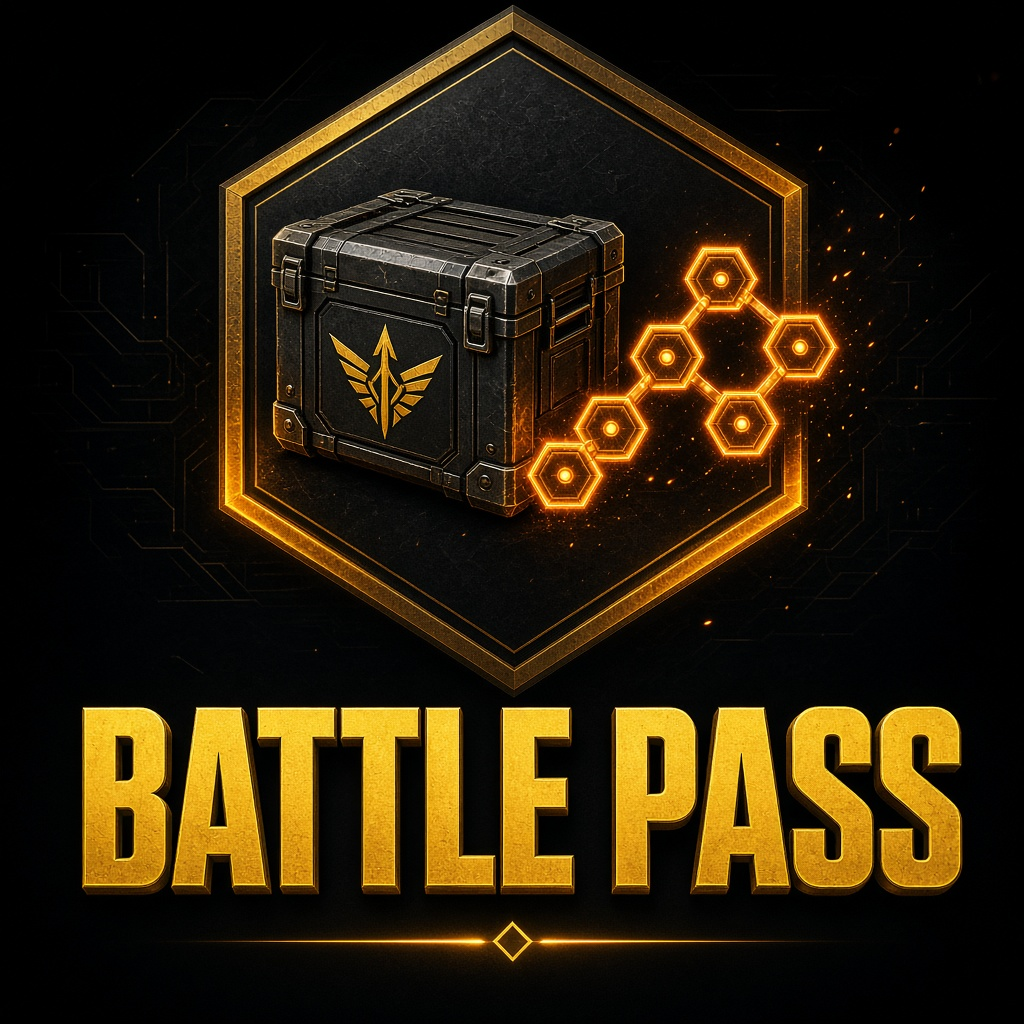
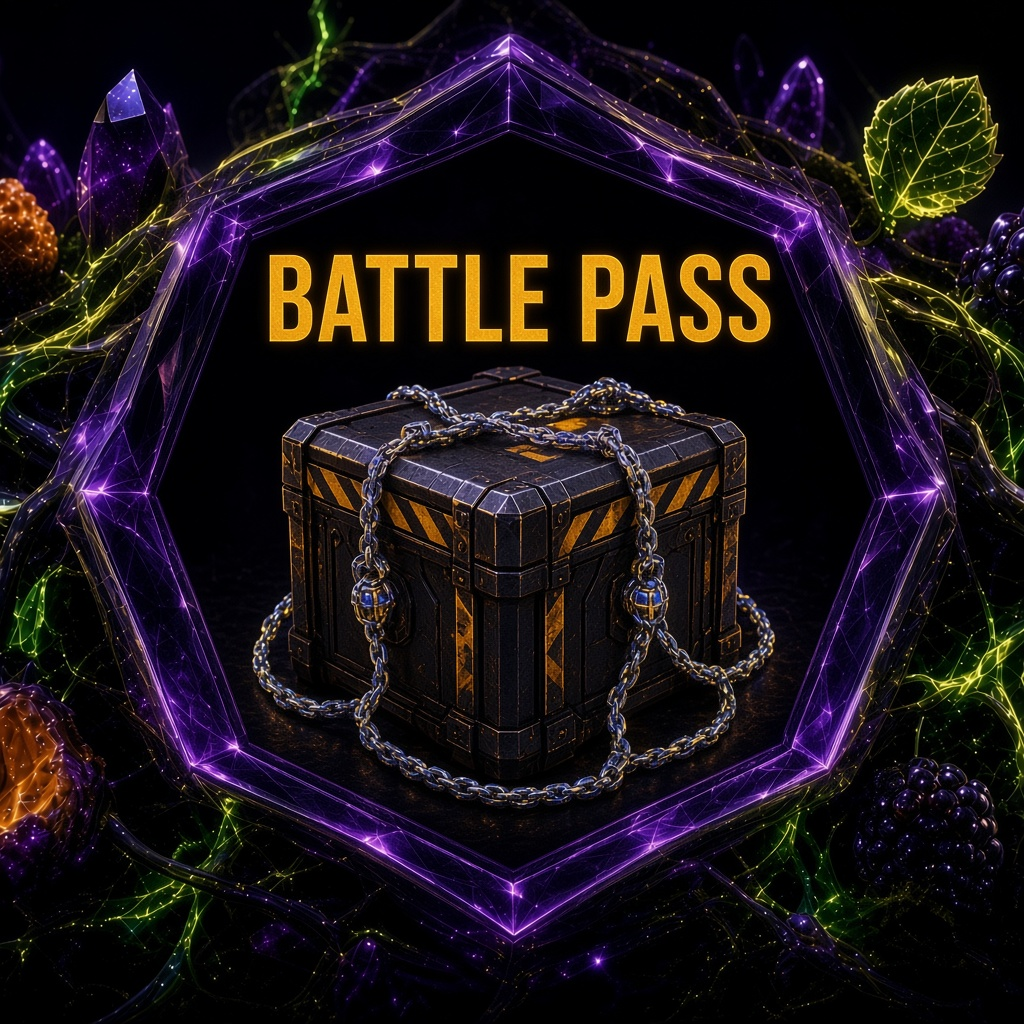
Use crystal-framed hub cells matched to the void grid layout.

diff --git a/src/app/globals.css b/src/app/globals.css
@@ -22582,8 +22582,9 @@ body:has(.home-page.is-hub),
 }
 
 /*
- * Ровная 3×3 по разметке Alex (оранжевые линии).
- * Внутренние границы — прямые; внешний контур = полигон дыры.
+ * 3×3 по оранжевой разметке: прямые внутренние линии,
+ * внешний контур = полигон чёрной дыры (углы/бока разного формата).
+ * Картинки — кристальные рамки в цветах фона.
  */
 .home-hub-grid {
   position: absolute;
@@ -22591,18 +22592,18 @@ body:has(.home-page.is-hub),
   left: 50.5%;
   top: 49.7%;
   translate: -50% -50%;
-  width: 31%;
+  /* почти на всю дыру (~34% ширины арта) */
+  width: 33%;
   aspect-ratio: 1 / 1;
   height: auto;
   display: grid;
   grid-template-columns: repeat(3, minmax(0, 1fr));
   grid-template-rows: repeat(3, minmax(0, 1fr));
-  gap: 3px;
+  gap: 2px;
   min-width: 0;
   min-height: 0;
   padding: 0;
   box-sizing: border-box;
-  /* внешний контур как у кристалла — углы ячеек по скосу */
   clip-path: polygon(
     50% 0%,
     100% 25%,
@@ -22620,7 +22621,7 @@ body:has(.home-page.is-hub),
   height: 100%;
   min-width: 0;
   min-height: 0;
-  background: #0a0b10;
+  background: #05060a;
   border: none;
   box-shadow: none;
   overflow: hidden;

diff --git a/src/components/HomeHub.tsx b/src/components/HomeHub.tsx
@@ -53,7 +53,7 @@ export function HomeHub({ showCw, cwCards }: Props) {
               <span
                 className="home-hub-tile-art"
                 aria-hidden="true"
-                style={{ backgroundImage: `url(${tile.image}?v=cell1)` }}
+                style={{ backgroundImage: `url(${tile.image}?v=cell2)` }}
               />
             </Link>
           ))}

diff --git a/docs/CHANGELOG.md b/docs/CHANGELOG.md
@@ -1,3 +1,9 @@
+## v. 1.2.161 — 05.11.2026 · Хаб: кристальные ячейки под разметку
+
+9 новых плиток с фиолетовыми рамками в цвете фона. Сетка на всю дыру, форма ячеек по полигону.
+
+---
+
 ## v. 1.2.160 — 05.11.2026 · Хаб: новые плитки под ровную 3×3
 
 Новые full-bleed картинки разделов. Сетка по разметке (прямые линии), внешний контур = полигон дыры. Фон не трогали.
